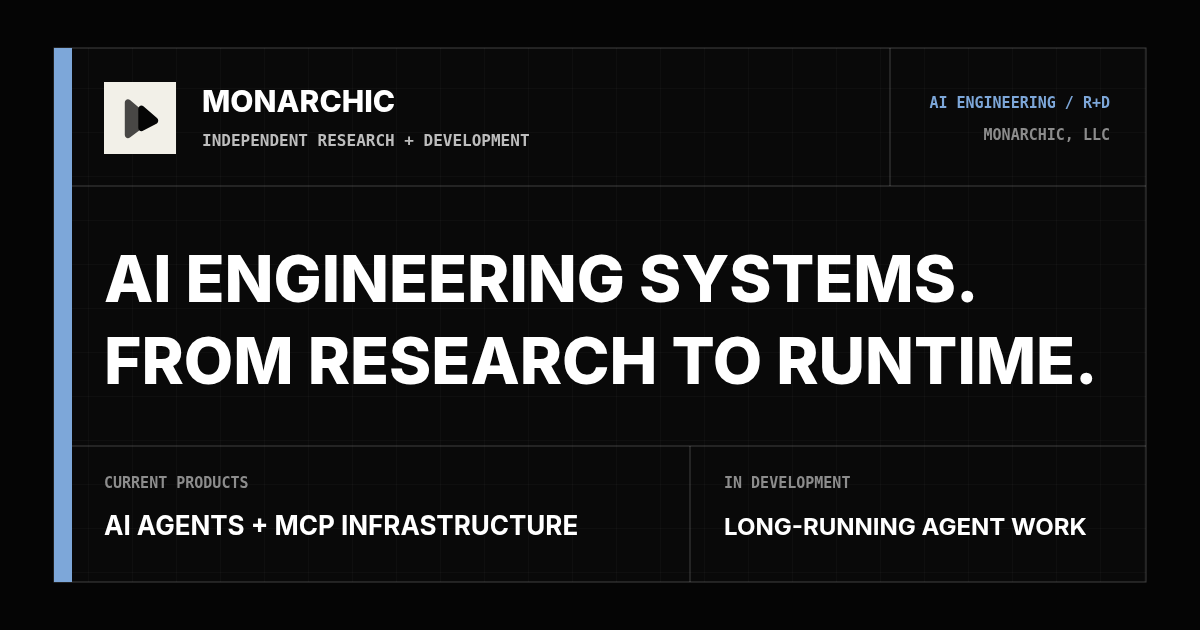
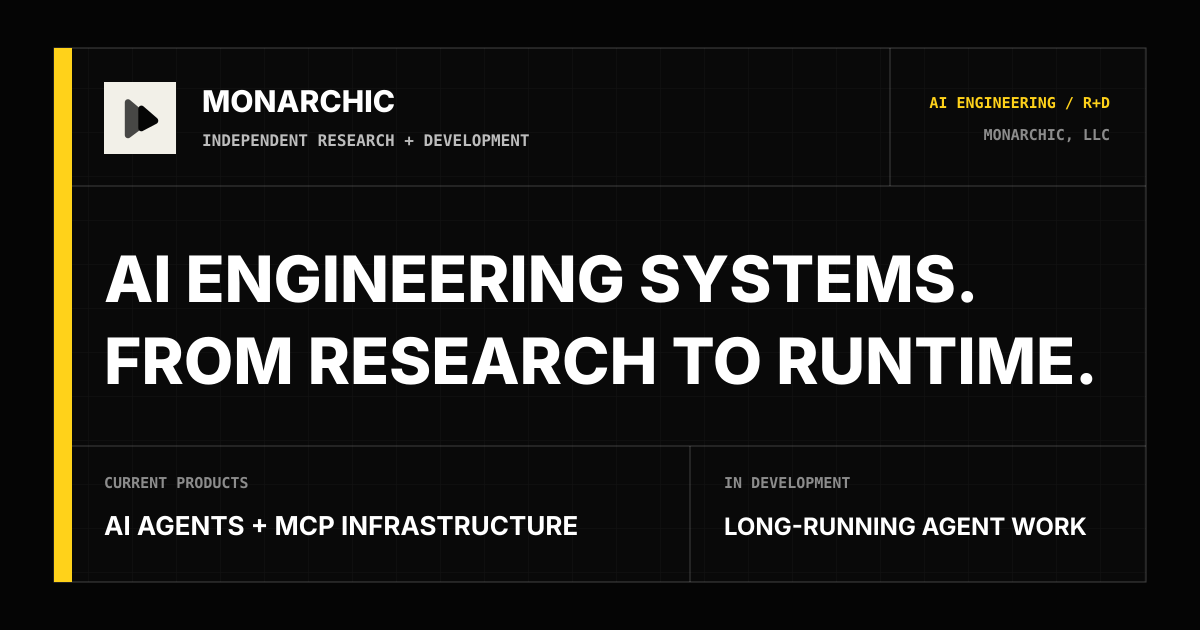
feat(brand): adopt reactor yellow accent

diff --git a/src/styles/global.css b/src/styles/global.css
@@ -4,8 +4,8 @@
 @theme {
   --color-ink: #080808;
   --color-paper: #f2f0e8;
-  --color-signal: #7da7d9;
-  --color-signal-soft: #dce8f6;
+  --color-signal: #ffd21a;
+  --color-signal-soft: #ffec99;
   --font-weight-extrabold: 700;
   --font-weight-black: 700;
 }
@@ -143,7 +143,7 @@
   z-index: -1;
   inset: 0;
   background-image:
-    linear-gradient(115deg, transparent 0 56%, rgb(125 167 217 / 0.055) 56% 56.15%, transparent 56.15%),
+    linear-gradient(115deg, transparent 0 56%, rgb(255 210 26 / 0.055) 56% 56.15%, transparent 56.15%),
     linear-gradient(90deg, transparent 0 72%, rgb(255 255 255 / 0.04) 72% 72.08%, transparent 72.08%);
   content: "";
   pointer-events: none;
@@ -160,7 +160,7 @@
   flex: 0 0 auto;
   border: 1px solid var(--color-signal);
   background: var(--color-signal);
-  box-shadow: 0 0 0 2px rgb(125 167 217 / 0.1);
+  box-shadow: 0 0 0 2px rgb(255 210 26 / 0.1);
 }
 
 .home-hero-copy::after {
@@ -170,8 +170,8 @@
   bottom: 1rem;
   width: 1rem;
   height: 1rem;
-  border-right: 1px solid rgb(125 167 217 / 0.5);
-  border-bottom: 1px solid rgb(125 167 217 / 0.5);
+  border-right: 1px solid rgb(255 210 26 / 0.5);
+  border-bottom: 1px solid rgb(255 210 26 / 0.5);
   content: "";
   pointer-events: none;
 }
@@ -215,13 +215,13 @@
 .home-hero-trace--two,
 .home-hero-trace--four,
 .home-hero-trace--six {
-  stroke: rgb(125 167 217 / 0.18);
+  stroke: rgb(255 210 26 / 0.18);
   stroke-width: 1.25px;
 }
 
 .home-hero-signal {
   fill: none;
-  stroke: rgb(125 167 217 / 0.44);
+  stroke: rgb(255 210 26 / 0.44);
   stroke-width: 1.5px;
   stroke-dasharray: 1.2 7.6;
   stroke-linecap: square;
@@ -239,7 +239,7 @@
 
 .home-hero-datum {
   fill: none;
-  stroke: rgb(125 167 217 / 0.3);
+  stroke: rgb(255 210 26 / 0.3);
   stroke-width: 1px;
 }
 
@@ -290,7 +290,7 @@
 }
 
 .system-field-lines .system-field-frame--inner {
-  stroke: rgb(125 167 217 / 0.56);
+  stroke: rgb(255 210 26 / 0.56);
   stroke-dasharray: 2 2;
 }
 
@@ -316,7 +316,7 @@
 }
 
 .system-field-lines .system-field-index {
-  stroke: rgb(125 167 217 / 0.7);
+  stroke: rgb(255 210 26 / 0.7);
   stroke-width: 2px;
 }
 
@@ -329,7 +329,7 @@
   border: 1px solid rgb(255 255 255 / 0.28);
   background: rgb(4 6 8 / 0.96);
   padding: 0.65rem 0.75rem;
-  box-shadow: 4px 4px 0 rgb(125 167 217 / 0.12);
+  box-shadow: 4px 4px 0 rgb(255 210 26 / 0.12);
   color: rgb(255 255 255 / 0.86);
   font-family: ui-monospace, SFMono-Regular, Menlo, Monaco, Consolas, monospace;
   text-transform: uppercase;
@@ -420,7 +420,7 @@
   place-content: center;
   border: 2px solid var(--color-signal);
   background: #050709;
-  box-shadow: 8px 8px 0 #020304, 8px 8px 0 1px rgb(125 167 217 / 0.62), inset 0 0 0 1px rgb(125 167 217 / 0.18);
+  box-shadow: 8px 8px 0 #020304, 8px 8px 0 1px rgb(255 210 26 / 0.62), inset 0 0 0 1px rgb(255 210 26 / 0.18);
   text-align: center;
   text-transform: uppercase;
   transform: translate(-50%, -50%);
@@ -430,7 +430,7 @@
 .system-field-core::before {
   position: absolute;
   inset: -0.65rem;
-  border: 1px solid rgb(125 167 217 / 0.48);
+  border: 1px solid rgb(255 210 26 / 0.48);
   content: "";
   pointer-events: none;
 }
@@ -438,8 +438,8 @@
 .system-field-core::after {
   position: absolute;
   inset: 0.4rem;
-  border-top: 1px solid rgb(125 167 217 / 0.24);
-  border-bottom: 1px solid rgb(125 167 217 / 0.24);
+  border-top: 1px solid rgb(255 210 26 / 0.24);
+  border-bottom: 1px solid rgb(255 210 26 / 0.24);
   content: "";
   pointer-events: none;
 }
@@ -609,7 +609,7 @@
   100% {
     border-color: rgb(255 255 255 / 0.28);
     background: rgb(4 6 8 / 0.96);
-    box-shadow: 4px 4px 0 rgb(125 167 217 / 0.12);
+    box-shadow: 4px 4px 0 rgb(255 210 26 / 0.12);
     color: rgb(255 255 255 / 0.86);
     transform: translate(0, 0);
   }
@@ -695,7 +695,7 @@
   100% {
     border-color: var(--color-signal);
     background: #050709;
-    box-shadow: 8px 8px 0 #020304, 8px 8px 0 1px rgb(125 167 217 / 0.62), inset 0 0 0 1px rgb(125 167 217 / 0.18);
+    box-shadow: 8px 8px 0 #020304, 8px 8px 0 1px rgb(255 210 26 / 0.62), inset 0 0 0 1px rgb(255 210 26 / 0.18);
     color: white;
     transform: translate(-50%, -50%);
   }
@@ -764,7 +764,7 @@
 }
 
 :focus-visible {
-  outline-color: #7da7d9 !important;
+  outline-color: #ffd21a !important;
   outline-style: solid !important;
   outline-width: 2px !important;
   outline-offset: 3px;

diff --git a/src/pages/build-info.json.ts b/src/pages/build-info.json.ts
@@ -60,7 +60,7 @@ export async function GET() {
         manifestDigest: catalogManifest.artifactDigest,
         artifactDigest: await catalogArtifactDigest(),
       },
-      socialImage: "/social-card.png?v=6",
+      socialImage: "/social-card.png?v=7",
     }),
     {
       headers: {
